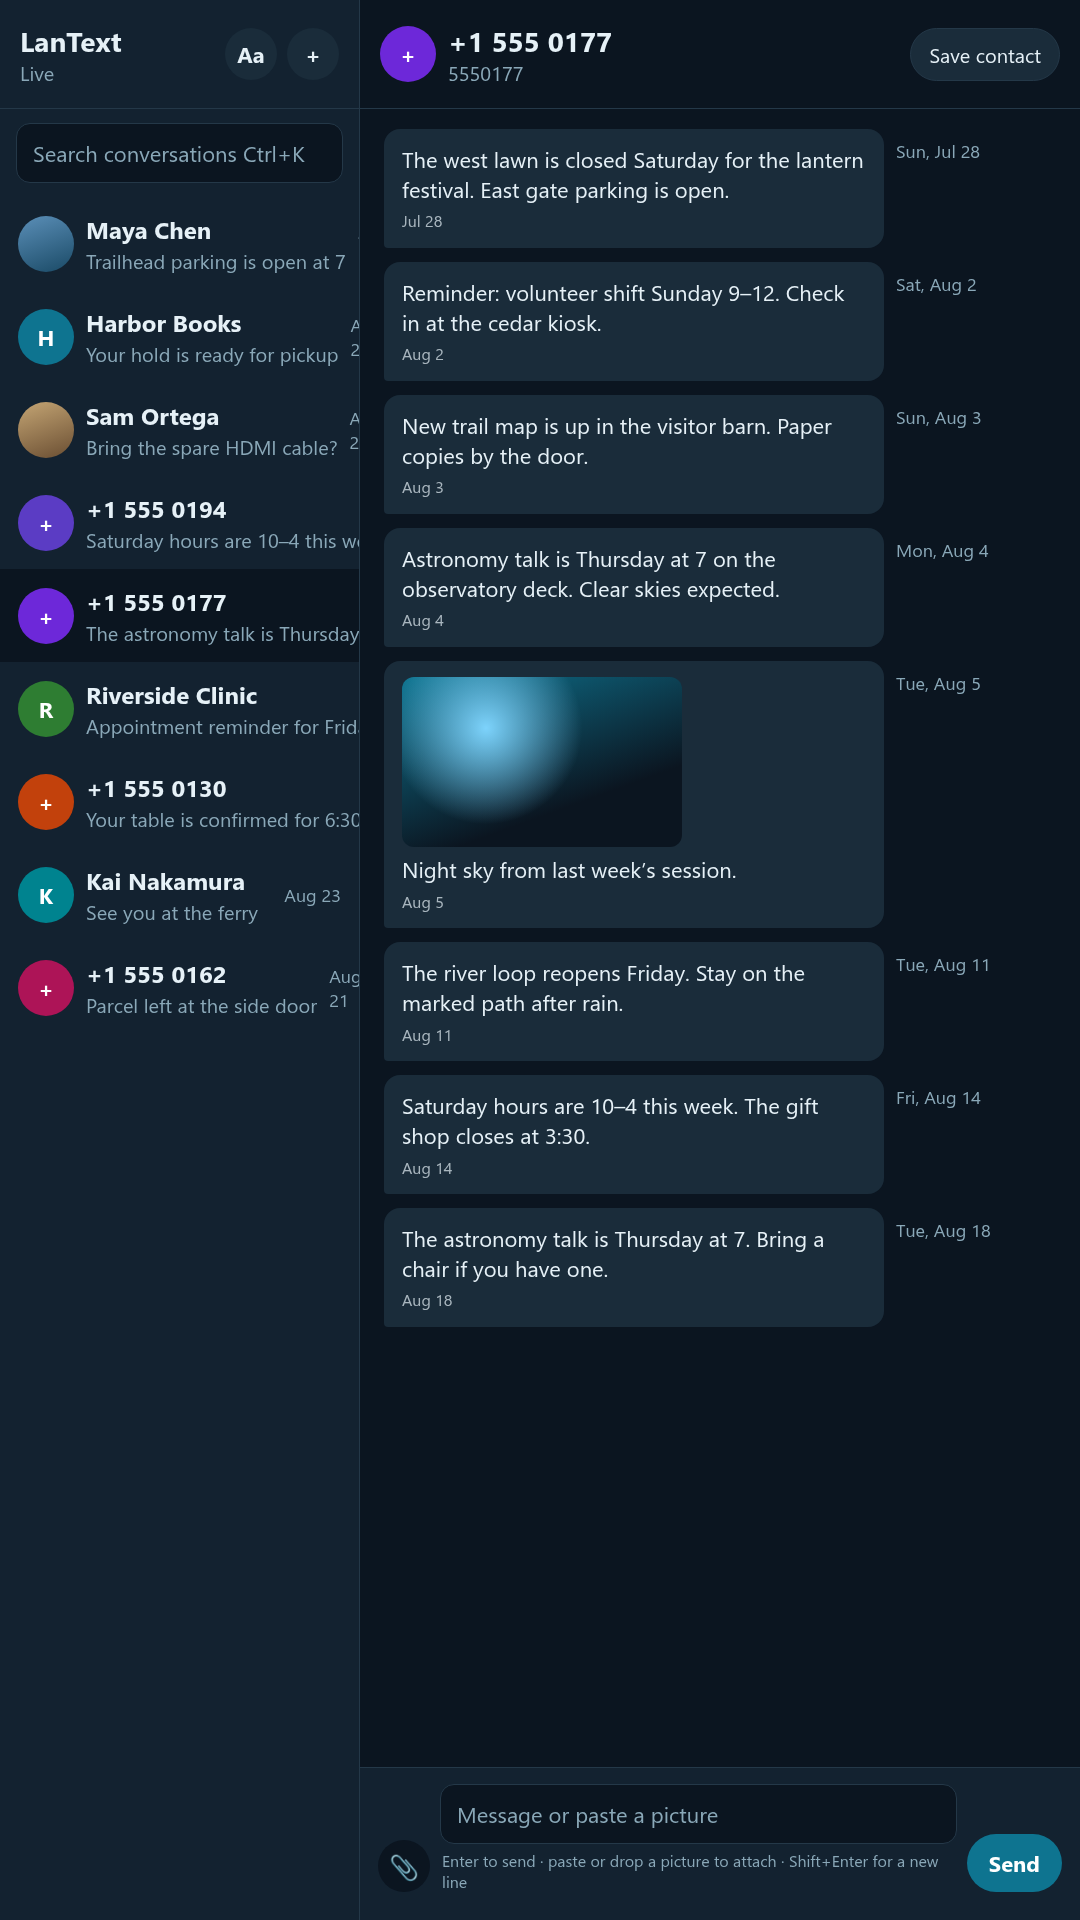
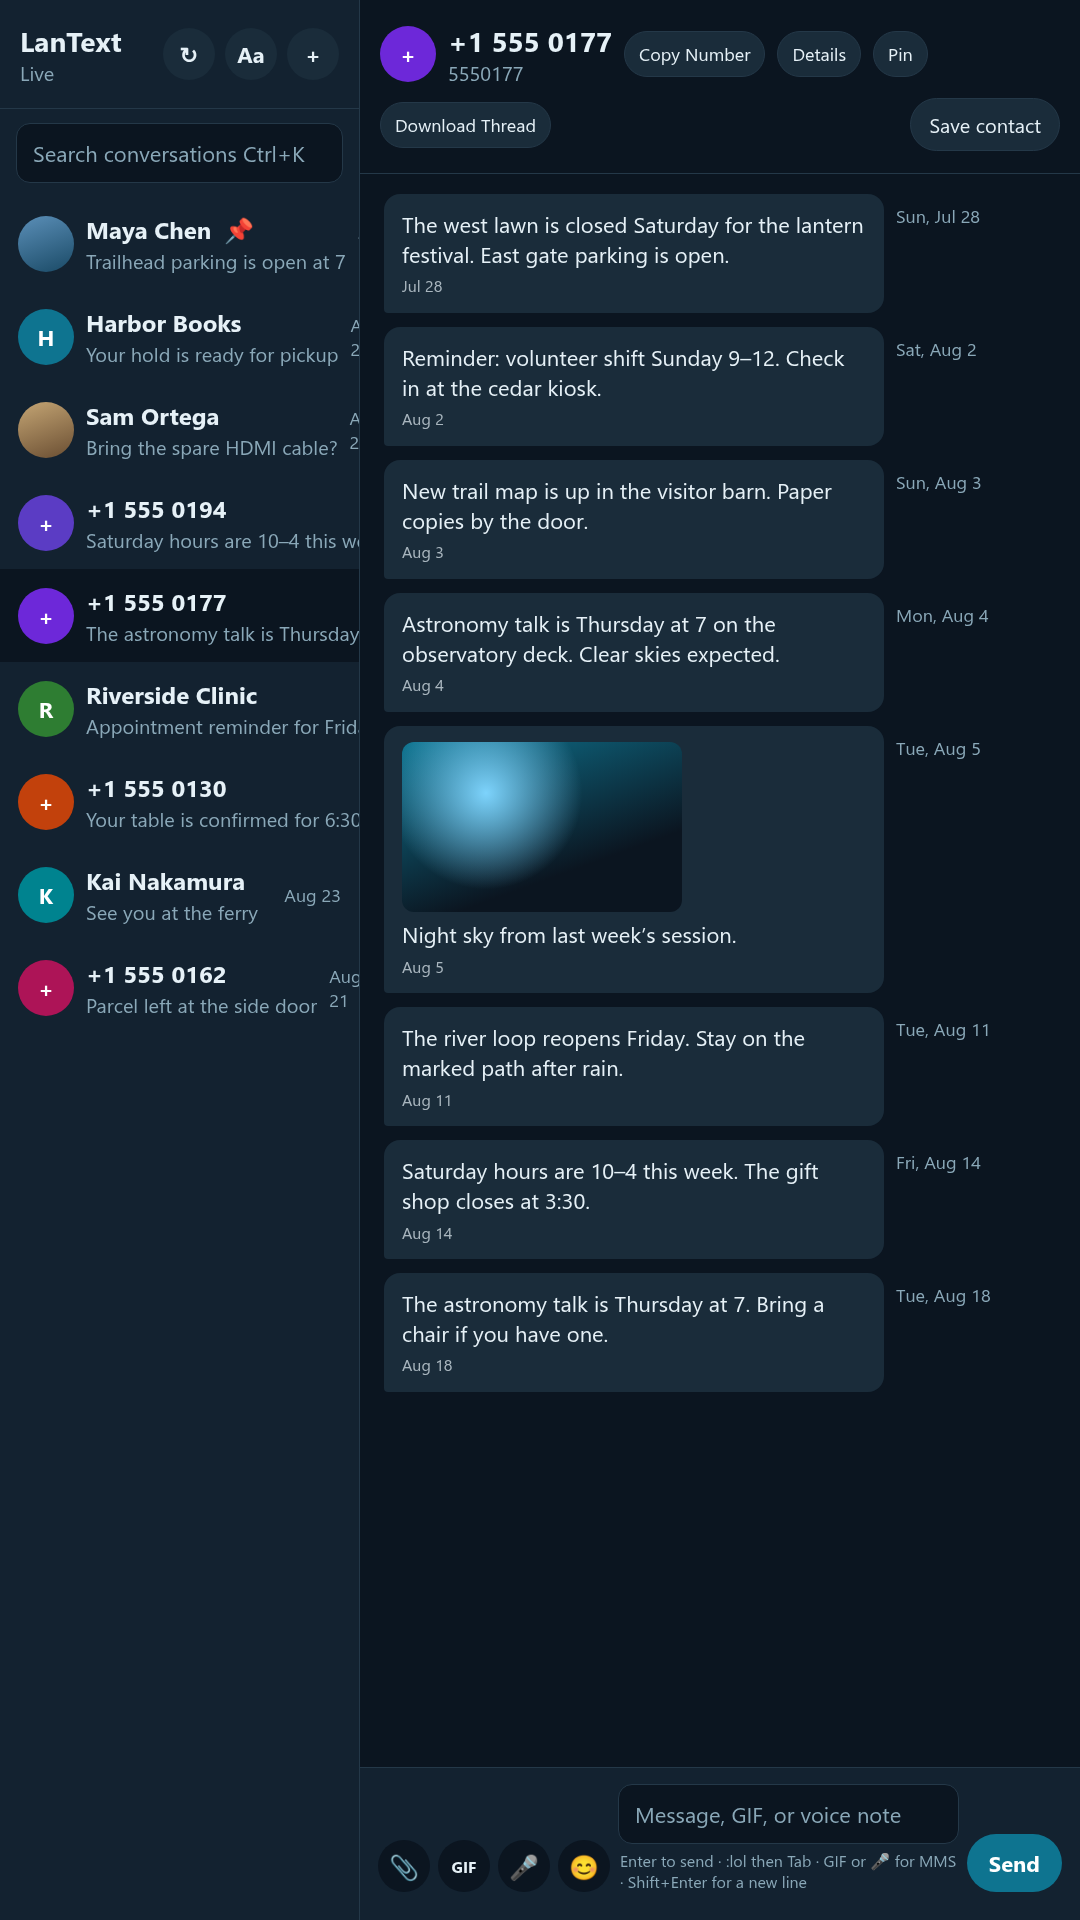
Prepare 0.2.5: changelog, store screenshots, and version bump
Document the web inbox polish. Screenshots show Settings on the
phone and pin, GIF, voice, and thread actions on the computer.

diff --git a/tools/store-art/web-desktop.html b/tools/store-art/web-desktop.html
@@ -32,33 +32,12 @@
       background: #f3f6f4; display: grid; place-items: center; font-size: 1.05rem;
       font-weight: 700;
     }
-    .scrim {
-      position: absolute; inset: 0; background: rgba(0,0,0,0.45);
-      display: grid; place-items: center; z-index: 20;
+    .text-btn {
+      border: 1px solid #d8e0db; background: #f3f6f4; border-radius: 999px;
+      padding: 8px 12px; font-size: 0.8rem; white-space: nowrap;
     }
-    .modal {
-      width: 480px; background: #fff; border-radius: 16px; padding: 16px;
-      box-shadow: 0 10px 30px rgba(20, 32, 26, 0.18);
-    }
-    .modal header { display: flex; justify-content: space-between; align-items: center; margin-bottom: 4px; }
-    .modal h2 { margin: 0; font-size: 1.15rem; }
-    .close { width: 40px; height: 40px; border-radius: 50%; background: #f3f6f4; display: grid; place-items: center; font-size: 1.2rem; }
-    .seg {
-      display: flex; gap: 4px; background: #f3f6f4; border: 1px solid #d8e0db;
-      padding: 4px; border-radius: 999px; margin: 12px 0 16px;
-    }
-    .seg span {
-      flex: 1; text-align: center; padding: 8px 10px; border-radius: 999px; font-size: 0.85rem;
-    }
-    .seg .on { background: #fff; font-weight: 600; box-shadow: 0 10px 30px rgba(20, 32, 26, 0.08); }
-    .theme-grid { display: grid; grid-template-columns: repeat(3, 1fr); gap: 10px; }
-    .theme {
-      border: 1px solid #d8e0db; background: #f3f6f4; border-radius: 12px; padding: 10px 8px 8px;
-    }
-    .theme.on { border-color: #156b57; box-shadow: 0 0 0 2px #156b57; }
-    .swatch { display: flex; height: 28px; border-radius: 8px; overflow: hidden; margin-bottom: 6px; border: 1px solid #d8e0db; }
-    .swatch i { flex: 1; display: block; }
-    .theme-name { font-size: 0.8rem; font-weight: 600; }
+    .thread-head { flex-wrap: wrap; }
+    .pin { color: #156b57; margin-left: 4px; font-size: 0.85rem; }
     .app { position: relative; }
     .search { padding: 8px 12px; }
     .search div {
@@ -126,6 +105,7 @@
           <p class="muted">Connected</p>
         </div>
         <div class="head-actions">
+          <div class="plus">↻</div>
           <div class="plus">Aa</div>
           <div class="plus">+</div>
         </div>
@@ -135,7 +115,7 @@
         <div class="convo active unread">
           <div class="avatar">J</div>
           <div>
-            <div class="name">Jordan <span class="dot"></span></div>
+            <div class="name">Jordan <span class="pin">📌</span><span class="dot"></span></div>
             <div class="snippet">From the ridge</div>
           </div>
           <div class="when">10:11</div>
@@ -173,6 +153,10 @@
           <h2>Jordan</h2>
           <p class="muted">+1 555 010 4420</p>
         </div>
+        <div class="text-btn">Copy Number</div>
+        <div class="text-btn">Details</div>
+        <div class="text-btn">Unpin</div>
+        <div class="text-btn">Download Thread</div>
       </div>
       <div class="messages">
         <div class="day">Today</div>
@@ -183,38 +167,16 @@
       </div>
       <div class="composer">
         <div class="attach">📎</div>
+        <div class="attach">GIF</div>
+        <div class="attach">🎤</div>
+        <div class="attach">😊</div>
         <div class="compose-main">
-          <div class="box">Message or paste a picture</div>
-          <p class="hint">Enter to send · paste or drop a picture to attach · Shift+Enter for a new line</p>
+          <div class="box">Message, GIF, or voice note</div>
+          <p class="hint">Enter to send · :lol then Tab · GIF or 🎤 for MMS · Shift+Enter for a new line</p>
         </div>
         <div class="send">Send</div>
       </div>
     </main>
-    <div class="scrim">
-      <div class="modal">
-        <header>
-          <h2>Appearance</h2>
-          <div class="close">×</div>
-        </header>
-        <p class="muted">Auto follows your system light or dark setting. Palettes keep both appearances.</p>
-        <div class="seg">
-          <span class="on">Auto</span>
-          <span>Light</span>
-          <span>Dark</span>
-        </div>
-        <div class="theme-grid">
-          <div class="theme on"><div class="swatch"><i style="background:#156b57"></i><i style="background:#1f8a70"></i><i style="background:#f3f6f4"></i></div><div class="theme-name">Fern</div></div>
-          <div class="theme"><div class="swatch"><i style="background:#0b6e99"></i><i style="background:#38bdf8"></i><i style="background:#f0f6fa"></i></div><div class="theme-name">Ocean</div></div>
-          <div class="theme"><div class="swatch"><i style="background:#5b3cc4"></i><i style="background:#a78bfa"></i><i style="background:#f6f3fb"></i></div><div class="theme-name">Dusk</div></div>
-          <div class="theme"><div class="swatch"><i style="background:#c2410c"></i><i style="background:#fb923c"></i><i style="background:#fbf6f1"></i></div><div class="theme-name">Ember</div></div>
-          <div class="theme"><div class="swatch"><i style="background:#334155"></i><i style="background:#94a3b8"></i><i style="background:#f4f5f7"></i></div><div class="theme-name">Slate</div></div>
-          <div class="theme"><div class="swatch"><i style="background:#be185d"></i><i style="background:#f472b6"></i><i style="background:#fdf6f8"></i></div><div class="theme-name">Sakura</div></div>
-          <div class="theme"><div class="swatch"><i style="background:#3f7d20"></i><i style="background:#86efac"></i><i style="background:#f4faf2"></i></div><div class="theme-name">Meadow</div></div>
-          <div class="theme"><div class="swatch"><i style="background:#5e81ac"></i><i style="background:#88c0d0"></i><i style="background:#eceff4"></i></div><div class="theme-name">Nord</div></div>
-          <div class="theme"><div class="swatch"><i style="background:#000"></i><i style="background:#fff"></i><i style="background:#e6e6e6"></i></div><div class="theme-name">Contrast</div></div>
-        </div>
-      </div>
-    </div>
   </div>
 </body>
 </html>

diff --git a/tools/store-art/web-thread.html b/tools/store-art/web-thread.html
@@ -75,6 +75,15 @@
       background: #38bdf8; display: inline-block; margin-left: 8px;
     }
     main { display: flex; flex-direction: column; min-width: 0; min-height: 0; }
+    .thread-head { flex-wrap: wrap; }
+    .text-btn {
+      border: 1px solid #243848;
+      background: #1a2c3a;
+      border-radius: 999px;
+      padding: 10px 14px;
+      font-size: 18px;
+      white-space: nowrap;
+    }
     .save {
       margin-left: auto;
       border: 1px solid #243848;
@@ -84,6 +93,7 @@
       font-size: 20px;
       white-space: nowrap;
     }
+    .pin { color: #38bdf8; margin-left: 6px; }
     .messages {
       flex: 1;
       padding: 20px 24px;
@@ -127,7 +137,7 @@
     }
     .meta { font-size: 16px; opacity: 0.7; margin-top: 6px; }
     .composer {
-      display: flex; gap: 10px; align-items: flex-end;
+      display: flex; gap: 8px; align-items: flex-end;
       padding: 16px 18px 28px;
       border-top: 1px solid #243848; background: #132230;
     }
@@ -156,6 +166,7 @@
           <p class="muted">Live</p>
         </div>
         <div class="head-actions">
+          <div class="icon">↻</div>
           <div class="icon">Aa</div>
           <div class="icon">+</div>
         </div>
@@ -165,7 +176,7 @@
         <div class="convo">
           <div class="avatar photo"></div>
           <div>
-            <div class="name">Maya Chen</div>
+            <div class="name">Maya Chen <span class="pin">📌</span></div>
             <div class="snippet">Trailhead parking is open at 7</div>
           </div>
           <div class="when">2:01 PM</div>
@@ -243,6 +254,10 @@
           <h2>+1 555 0177</h2>
           <p class="muted">5550177</p>
         </div>
+        <div class="text-btn">Copy Number</div>
+        <div class="text-btn">Details</div>
+        <div class="text-btn">Pin</div>
+        <div class="text-btn">Download Thread</div>
         <div class="save">Save contact</div>
       </div>
       <div class="messages">
@@ -285,9 +300,12 @@
       </div>
       <div class="composer">
         <div class="attach">📎</div>
+        <div class="attach" style="font-size:16px;font-weight:700">GIF</div>
+        <div class="attach">🎤</div>
+        <div class="attach">😊</div>
         <div class="compose-main">
-          <div class="box">Message or paste a picture</div>
-          <p class="hint">Enter to send · paste or drop a picture to attach · Shift+Enter for a new line</p>
+          <div class="box">Message, GIF, or voice note</div>
+          <p class="hint">Enter to send · :lol then Tab · GIF or 🎤 for MMS · Shift+Enter for a new line</p>
         </div>
         <div class="send">Send</div>
       </div>

diff --git a/tools/store-art/phone-app.html b/tools/store-art/phone-app.html
@@ -84,10 +84,10 @@
     .actions { display: flex; gap: 12px; }
     .btn {
       flex: 1; background: #dceee7; color: #0e3a31;
-      border-radius: 24px; padding: 18px 8px; text-align: center;
-      font-size: 26px; font-weight: 650;
+      border-radius: 24px; padding: 16px 4px; text-align: center;
+      font-size: 22px; font-weight: 650;
     }
-    .btn small { display: block; font-size: 22px; margin-top: 4px; }
+    .btn small { display: block; font-size: 20px; margin-top: 4px; }
   </style>
 </head>
 <body>
@@ -122,6 +122,7 @@
     <div class="actions">
       <div class="btn">📶<small>Networks</small></div>
       <div class="btn">💻<small>Computers</small></div>
+      <div class="btn">⚙<small>Settings</small></div>
       <div class="btn">ℹ<small>About</small></div>
     </div>
   </main>

diff --git a/CHANGELOG.md b/CHANGELOG.md
@@ -10,25 +10,26 @@ The F-Droid / Play-style “what's new” text for each Android `versionCode` li
 
 ## [Unreleased]
 
+## [0.2.5] — 2026-09-05
+
+Sideload build for testers.
+
 ### Added
 
-- Emoji picker on the web composer (thread and new message). Type a
-  Google Meet-style shortcut such as `:lol` and press Tab or Enter to
-  insert without clicking. Hover an emoji to see its command.
+- Emoji picker on the web composer. Type a Meet-style shortcut such as
+  `:lol` and press Tab or Enter to insert. Hover an emoji to see its
+  command.
+- Settings on the phone: GIF search and voice notes are experimental and
+  can be turned off. The computer inbox hides those controls immediately.
+- Pin a conversation from the thread header or by right-clicking it in
+  the list. Pinned threads stay at the top.
+- Copy Number, Details (everyone in the thread), and Download Thread (PDF
+  with dates and times). The contact photo opens Details.
 - Choosing a web appearance updates the home-screen widget colors.
-- Desktop notification permission is requested when the inbox loads; the
-  enable banner remains if the browser still needs a click.
-- Click a picture in a thread to expand it to fill the tab; click or Esc to
-  close.
-- Download thread as a PDF (dates and times on every message).
-- Record a voice note in the browser and send it as MMS AMR (carrier
-  picture-message rules, not RCS).
-- GIF picker (search + tap) sends a small GIF as MMS. Paste or attach a
-  `.gif` also works. Tenor’s third-party API is gone, so search uses
-  Openverse / Wikimedia files small enough for MMS. Hover a result to
-  preview the animation in a popup.
-- Copy the thread’s phone number(s), and a Details view of everyone in
-  a 1:1 or group thread (phones, emails, org).
+- Desktop notification permission is requested when the inbox loads.
+- Click a picture in a thread to expand it; click or Esc to close.
+- GIF search (Openverse / Wikimedia, small enough for MMS) and browser
+  voice notes sent as MMS. Paste or attach a `.gif` also works.
 
 ### Fixed
 
@@ -53,6 +54,8 @@ The F-Droid / Play-style “what's new” text for each Android `versionCode` li
   with the browser’s HTTP 502 screen. The overlay waits 20 seconds so a brief
   WebSocket drop does not interrupt typing. The events socket no longer uses
   NanoHTTPD’s 5-second read timeout.
+- Emoji typed in the computer inbox (including `:lol`) is sent as Unicode
+  instead of four replacement characters.
 
 ### Changed
 
@@ -62,6 +65,8 @@ The F-Droid / Play-style “what's new” text for each Android `versionCode` li
   Wi-Fi re-evaluation skips RSSI-only callbacks, and the known-SSID list is
   not rewritten on every sighting. Content-Security-Policy `connect-src` is
   `'self'` only.
+- Home-screen widget Turn on / Turn off control uses the same pill shape
+  as other buttons.
 
 ## [0.2.4] — 2026-08-30
 
@@ -172,6 +177,7 @@ HTTPS inbox on Wi-Fi you allow, without becoming the default SMS app.
 - F-Droid Fastlane metadata and project documentation
 
 [Unreleased]: #unreleased
+[0.2.5]: #025--2026-09-05
 [0.2.4]: #024--2026-08-30
 [0.2.3]: #023--2026-08-30
 [0.2.2]: #022--2026-08-30

diff --git a/README.md b/README.md
@@ -5,7 +5,7 @@
 [![License](https://img.shields.io/badge/license-Apache%202.0-1F8A70.svg)](LICENSE)
 [![Android](https://img.shields.io/badge/Android-8%2B-156B57.svg)](#build)
 [![F-Droid](https://img.shields.io/badge/F--Droid-planned-156B57.svg)](F-DROID.md)
-[![version](https://img.shields.io/badge/version-0.2.4-14201a.svg)](CHANGELOG.md)
+[![version](https://img.shields.io/badge/version-0.2.5-14201a.svg)](CHANGELOG.md)
 [![source](https://img.shields.io/badge/github-crome1394%2FLanText-1F8A70.svg)](https://github.com/crome1394/LanText)
 
 ![LanText — SMS from your computer, never leaves your Wi-Fi](fastlane/metadata/android/en-US/images/featureGraphic.png)
@@ -53,12 +53,15 @@ trusted.
 
 - Two-pane inbox, search, contacts, unread dots
 - **Enter** sends, **Shift+Enter** is a new line
+- `:lol` then Tab inserts emoji (Meet-style shortcuts)
 - Paste, drop, or attach a picture — it goes out as MMS through the carrier
+- Optional GIF search and voice notes (MMS; experimental, off from **Settings** on the phone)
+- Pin conversations, copy a number, contact details, download a thread as PDF
 - Links in messages are clickable
 - Desktop notifications when a text arrives
 - If the computer wakes or the phone is off the LAN, the inbox greys out with a Reconnect button instead of a browser error
 - Save an unknown number as a contact, or add it to someone you already know
-- Appearance: Auto, Light, or Dark, plus palettes
+- Appearance: Auto, Light, or Dark, plus palettes (the home-screen widget follows)
 - Change the listen port (default 8743) if something else on your LAN uses it
 - A home-screen widget flips web access on and off without opening the app
 
@@ -144,8 +147,8 @@ export ANDROID_HOME="$HOME/Android/Sdk"
 ```
 
 - minSdk 26 (Android 8), targetSdk 36
-- Current version: **0.2.4** (`versionCode` 6)
-- Latest git tag: **v0.2.4**
+- Current version: **0.2.5** (`versionCode` 7)
+- Latest git tag: **v0.2.5**
 - Application id: `app.lantext`
 - License: [Apache 2.0](LICENSE)
 

diff --git a/F-DROID.md b/F-DROID.md
@@ -93,9 +93,9 @@ Hard rules (from F-Droid norms and the Point Forecast review):
 8. One clean tagged release you are happy with. Do not bump versions
    mid-review unless a maintainer asks.
 
-The draft currently lists **0.2.4** (`versionCode` 6), commit
-`cec8a9a26f48f0a42d84274f68aa20779ec20e23`. If you tag a newer release
-before the MR, update those fields first.
+The draft currently lists **0.2.5** (`versionCode` 7). After tagging,
+set `Builds.commit` to `git rev-parse v0.2.5^{}`. If you tag a newer
+release before the MR, update those fields first.
 
 F-Droid clones **this GitHub repository**. You do not move the project to
 GitLab; GitLab is only where the packaging recipe is reviewed.
